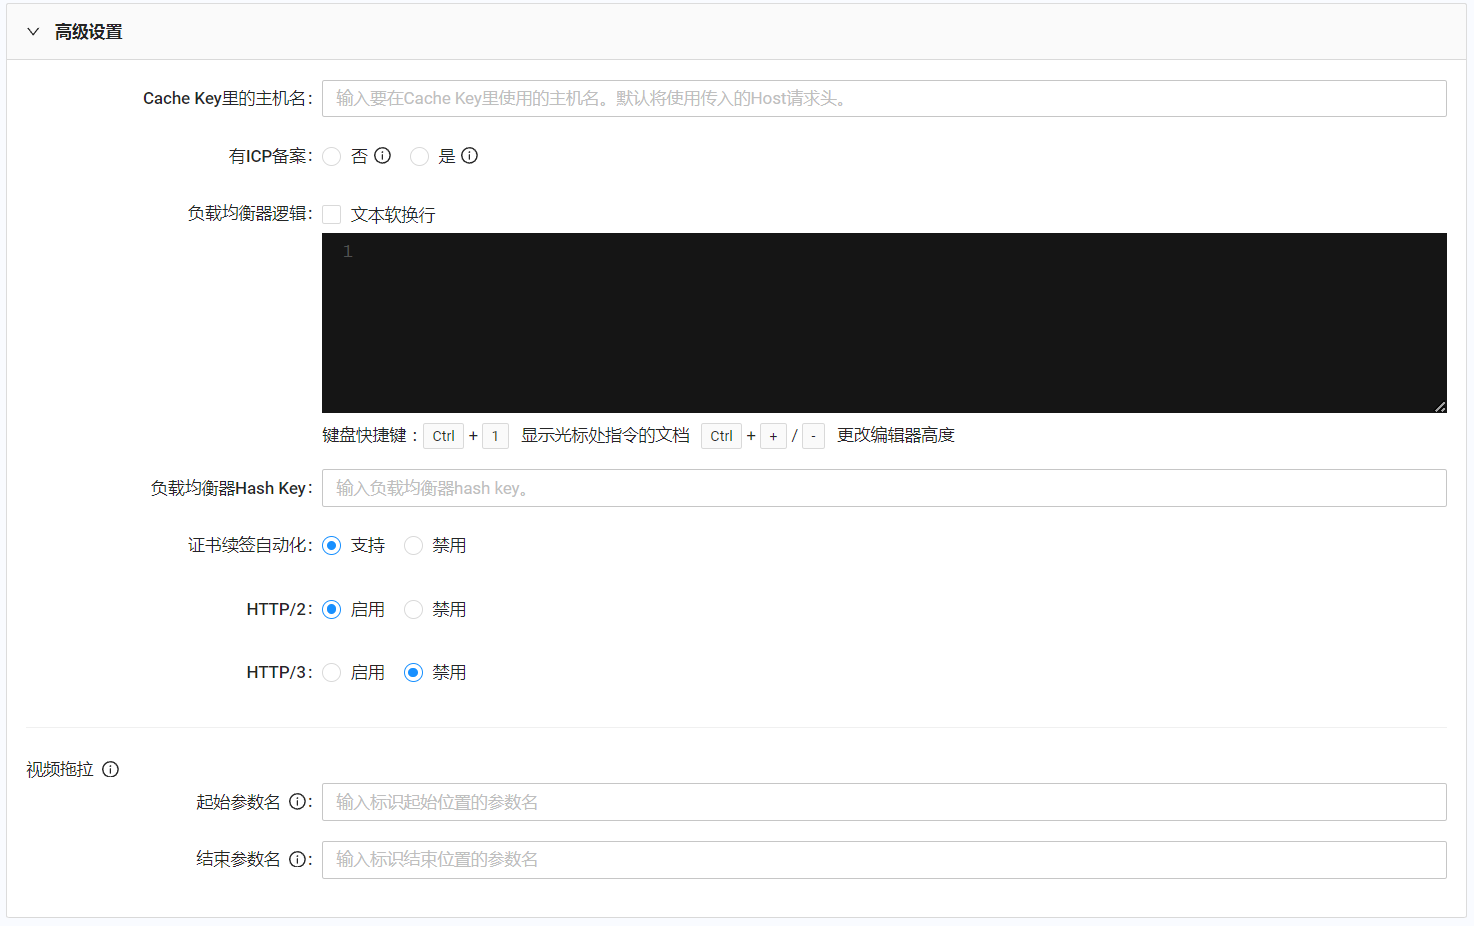
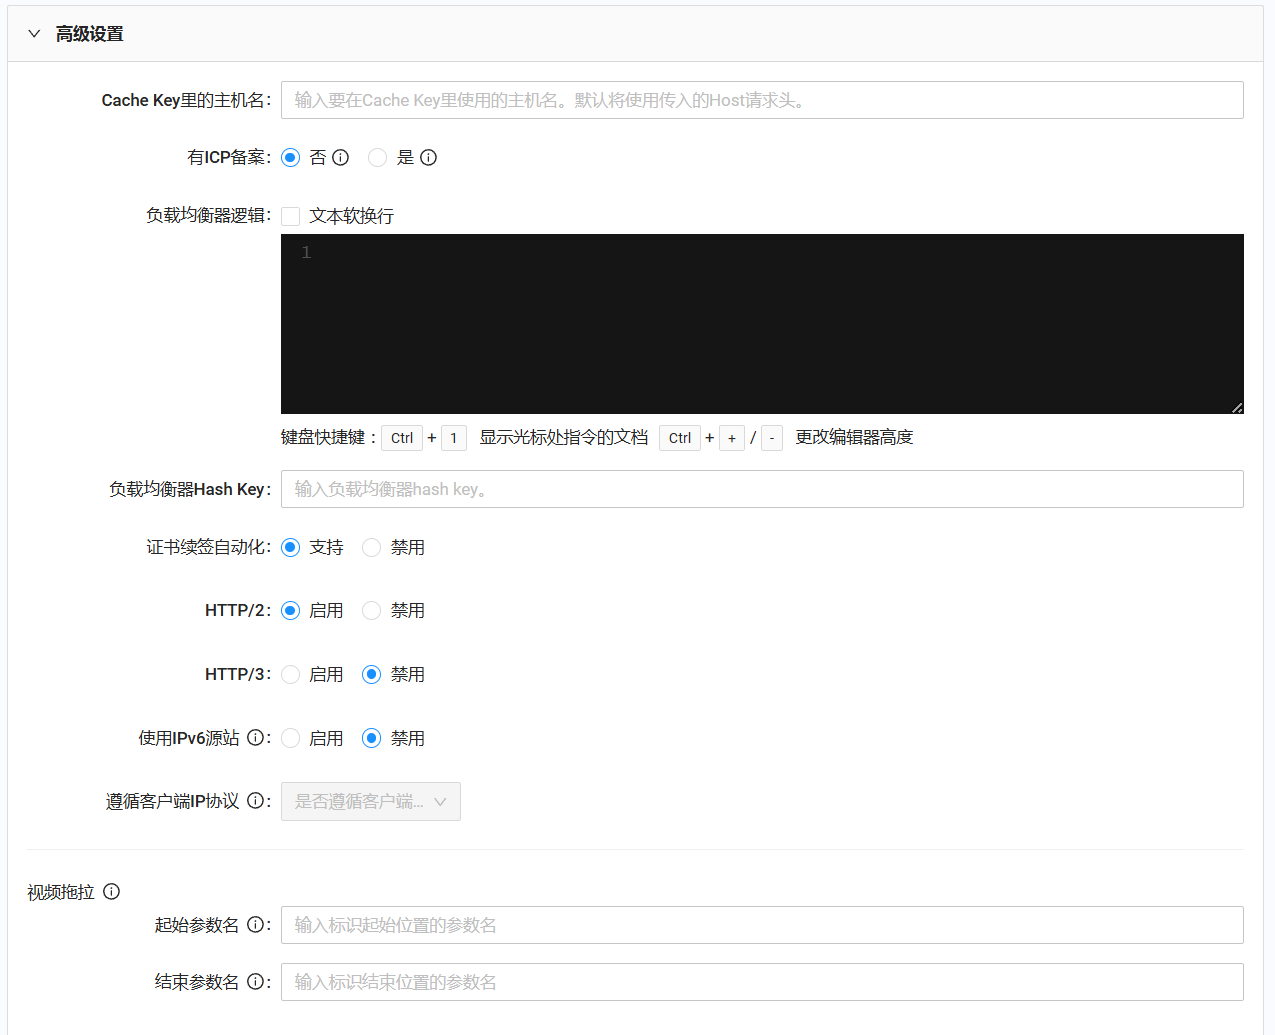
NGDOC-301 #comment describe NCP-3434 changes

diff --git a/en/docs/portal/edge-configurations/creating-property.md b/en/docs/portal/edge-configurations/creating-property.md
@@ -117,6 +117,11 @@ Example:  `if ($http_user_agent = bot) { return 403;}`
 
  **HTTP/3:** Use the radio buttons to enable or disable the HTTP/3 protocol. HTTP/3 is disabled by default.
 
+ **Enable IPv6 Origin:** Control whether IPv6 addresses can be used when accessing the property's origin servers. Enabling does not mean IPv6 is exclusively used though. If the setting is **Disable**, only IPv4 addresses are used to access the origin even if the origin supports IPv6. If your origin supports IPv6 only, then you must also modify the origin's **Direct Connection** setting to **No Direct** and the property's **Follow Client IP Version** to **strict** to ensure IPv6 is exclusively used. This is required because some CDN Pro edge server only support IPv4.
+
+
+ **Follow Client IP Version:** This setting controls whether to use the IP version of the client when a corresponding request must be made to the origin server for content. The setting is ignored if **Enable IPv6 Origin** is **Disable**. Choices are:<ul><li><strong>auto</strong> = Use the same IP version as the client, but use the other version as backup if needed.</li><li><strong>strict</strong> = Strictly match the IP version of the client.</li><li><strong>off</strong> = Use both IPv4 and IPv6 addresses regardless of the IP version of the client. (*default*)</li></ul>
+ 
  **Video Seeking:** This parameter supports seeking in a video using the following fields to specify the starting and ending positions. <ul><li>In the **Start Parameter** field, enter the beginning position of a video segment in bytes. </ul></li><ul><li>In the **End Parameter** field, enter the ending position of the video segment in bytes, or leave this field empty to play the video to the end.</ul></li>
 
 <p align=center><img src="/docs/resources/images/edge-configurations/property-advanced-settings.png" alt="Property Advanced Settings" width="650"></p>

diff --git a/zh/docs/portal/edge-configurations/creating-property.md b/zh/docs/portal/edge-configurations/creating-property.md
@@ -117,6 +117,11 @@ Example:  `if ($http_user_agent = bot) { return 403;}`
 
  **HTTP/3:** Use the radio buttons to enable or disable the HTTP/3 protocol. HTTP/3 is disabled by default.
 
+ **Enable IPv6 Origin:** Control whether IPv6 addresses can be used when accessing the property's origin servers. Enabling does not mean IPv6 is exclusively used though. If the setting is **Disable**, only IPv4 addresses are used to access the origin even if the origin supports IPv6. If your origin supports IPv6 only, then you must also modify the origin's **Direct Connection** setting to **No Direct** and the property's **Follow Client IP Version** to **strict** to ensure IPv6 is exclusively used. This is required because some CDN Pro edge server only support IPv4.
+
+
+ **Follow Client IP Version:** This setting controls whether to use the IP version of the client when a corresponding request must be made to the origin server for content. The setting is ignored if **Enable IPv6 Origin** is **Disable**. Choices are:<ul><li><strong>auto</strong> = Use the same IP version as the client, but use the other version as backup if needed.</li><li><strong>strict</strong> = Strictly match the IP version of the client.</li><li><strong>off</strong> = Use both IPv4 and IPv6 addresses regardless of the IP version of the client. (*default*)</li></ul>
+ 
  **Video Seeking:** This parameter supports seeking in a video using the following fields to specify the starting and ending positions. <ul><li>In the **Start Parameter** field, enter the beginning position of a video segment in bytes. </ul></li><ul><li>In the **End Parameter** field, enter the ending position of the video segment in bytes, or leave this field empty to play the video to the end.</ul></li>
 
 <p align=center><img src="/docs/resources/images/edge-configurations/property-advanced-settings.png" alt="Property Advanced Settings" width="650"></p>
